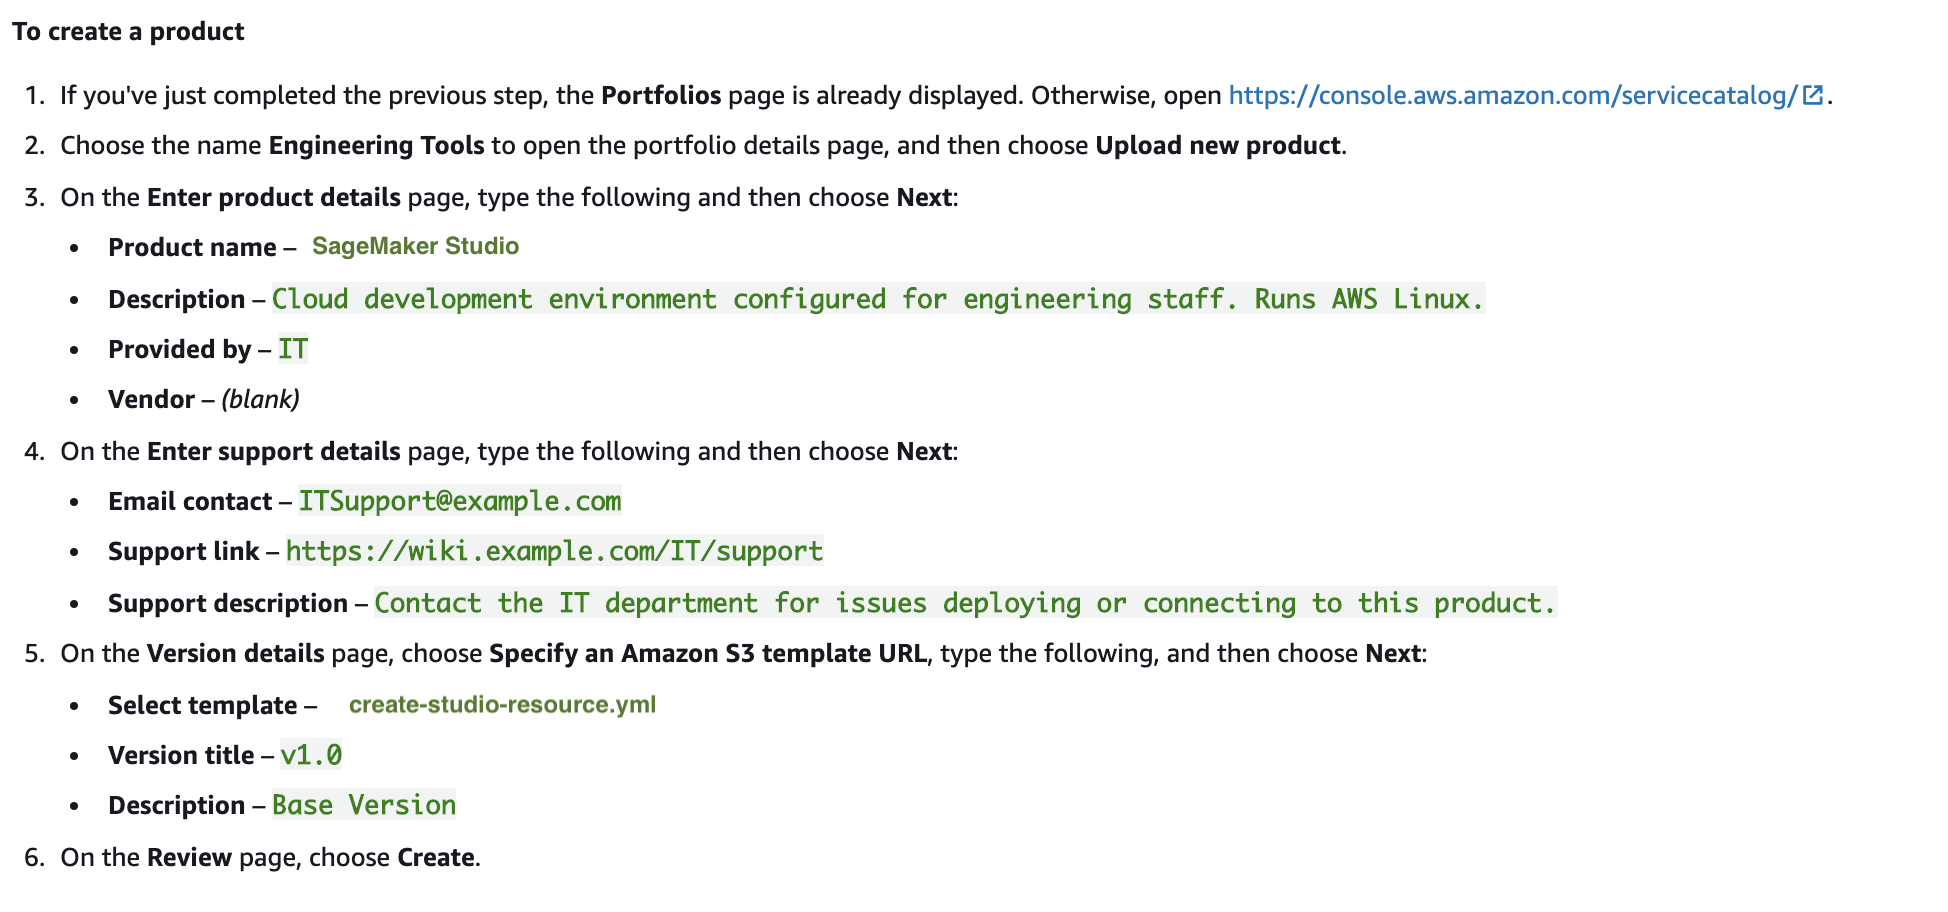
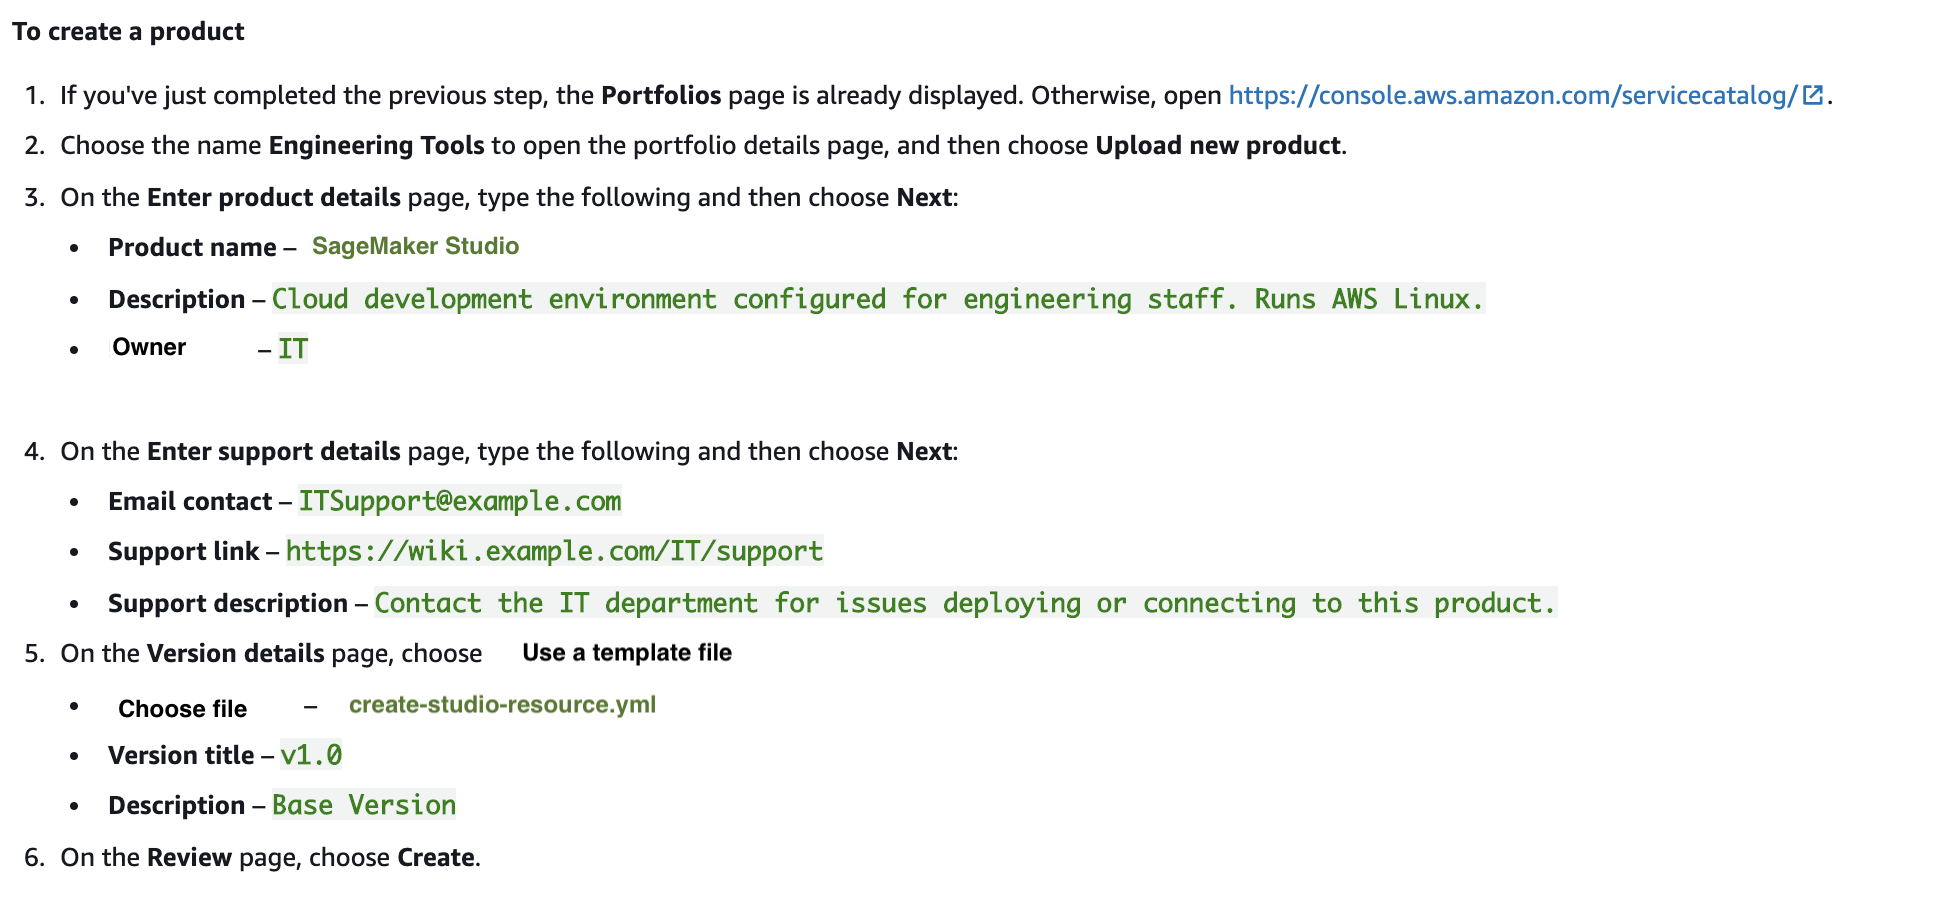
lab2 instructions update

diff --git a/service-catalog/README.md b/service-catalog/README.md
@@ -49,15 +49,25 @@ aws lambda create-function \
 
 
 ### <b>Step 1: Download the AWS CloudFormation Template</b>
-In the SageMaker Notebook Instance that was created as part of the MLOps Stack, using the jupyter inteface download the create-studio-resource.yml file from the "studio" folder to your local machine. 
+In the SageMaker Notebook Instance that was created as part of the MLOps Stack, using the jupyter interface download the create-studio-resource.yml file from the "studio" folder to your local machine. 
 
 ### <b>Step 2: Create an AWS Service Catalog Portfolio</b>
+
 ![sc-create-portfolio](../docs/sc-create-portfolio.png)
 
 ### <b>Step 3: Create an AWS Service Catalog Product</b>
 
-![sc-create-portfolio](../docs/sc-create-product.png)
+To create a product, click on the portfolio name, In the portfolio details page, click on "Upload new product"
 
+Provide the product details
+
+![sc-create-portfolio](../docs/sc-product-details.png)
+
+
+In the version details section, choose the "Use a template file method" and upload the template file downloaded in step 1. Fill in a Version title and click "Review". In the Review product details page, click "Create product"
+
+
+![sc-create-portfolio](../docs/sc-product-version-details.png)
 
 ### <b>Step 4: Add a Template Constraint to Limit Instance Size</b>
 
